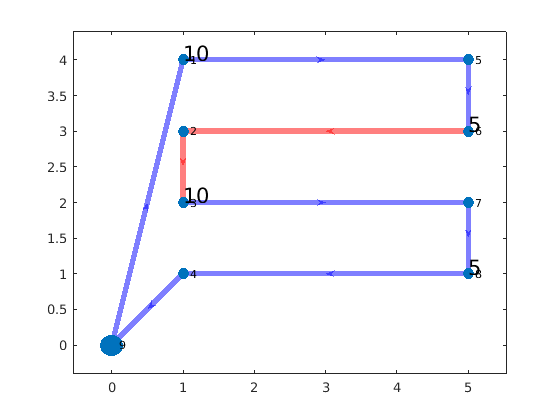
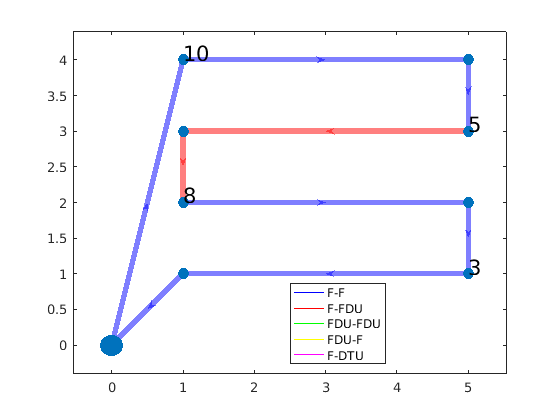
fixed problem with createBaseStationComplex.m

diff --git a/GTSP/GLNSplotter.m b/GTSP/GLNSplotter.m
@@ -6,11 +6,7 @@ clear
 close all
 load rando3.mat
 load rando1.mat
-GLNSSolution = [1001, 528, 207, 485, 110, 646, 725, 1358, 1808, 1955, 2001]
-
-
-
-
+GLNSSolution = [56, 23, 88, 89, 1]
 
 v_Cluster = cell2mat(v_Cluster);
 while GLNSSolution(1) ~= (numPointsInit * numBatteryLevels)+1
@@ -80,7 +76,7 @@ T4 = S3;
 T5 = S3;
 T6 = S3;
 T7 = S3;
-
+impossible = 0;
 for a = 2:(numPointsInit/2)+1
     if a == (numPointsInit/2)+1
         typeChecker = v_Type(GLNSSolution(a),GLNSSolution(a+1));
@@ -118,7 +114,9 @@ for a = 2:(numPointsInit/2)+1
         S7(end+1) = GLNSSolutionWithAllPoints(locationStart+1);
         T7(end+1) = GLNSSolutionWithAllPoints(locationEnd);
     else
+        impossible = 1;
         disp('error')
+        break
     end
     
 end
@@ -132,37 +130,51 @@ for i = 1:numel(GLNSx)
     end
 end
 
-% GLNSg = addedge(GLNSg,S8,T8);
-figure(2)
-GLNSPlot = plot(GLNSg,'XData',GLNSx,'YData',GLNSy, 'LineWidth',4, 'EdgeColor', 'b');
-axis equal
-groupedPoints = cell2mat(groupedPoints);
+if impossible == 0
+    % GLNSg = addedge(GLNSg,S8,T8);
+    figure(2)
+    GLNSPlot = plot(GLNSg,'XData',GLNSx,'YData',GLNSy, 'LineWidth',4, 'EdgeColor', 'b');
+    GLNSPlot.NodeLabel = {};
+    axis equal
+    groupedPoints = cell2mat(groupedPoints);
+    
+    for i = 2:length(GLNSSolution)-1
+        text(GLNSx(groupedPoints(GLNSSolution(i))), GLNSy(groupedPoints(GLNSSolution(i)))+0.1, num2str(v_ClusterLevels(GLNSSolution(i))), 'FontSize', 16)
+    end
+    hold on
+    
+    % highlight edges for UAV
+    if isempty(S3) == 0                 %highlight type 1 edges: F-F
+        highlight(GLNSPlot,S3, T3,'EdgeColor','b','LineWidth',4, 'LineStyle', '-')
+    end
+    if isempty(S4) == 0                 %highlight type 2 edges: F-FDU
+        highlight(GLNSPlot,S4, T4,'EdgeColor','r','LineWidth',4, 'LineStyle', '-')
+    end
+    if isempty(S5) == 0                 %highlight type 3 edges: FDU-FDU
+        highlight(GLNSPlot,S5, T5,'EdgeColor','g','LineWidth',4, 'LineStyle', '-')
+    end
+    if isempty(S6) == 0                 %highlight type 4 edges: FDU-F
+        highlight(GLNSPlot,S6, T6,'EdgeColor','y','LineWidth',4, 'LineStyle', '-')
+    end
+    if isempty(S7) == 0                 %highlight type 5 edges: F-DTU
+        highlight(GLNSPlot,S7, T7,'EdgeColor','m','LineWidth',4, 'LineStyle', '-')
+    end
+    % highlighting edges for UGV
+    % highlight(GLNSPlot, S8, T8, 'EdgeColor', 'r', 'LineWidth', 4)
+    
+    highlight(GLNSPlot, S2)             %highlights nodes
+    highlight(GLNSPlot, numel(S2))    %highlights last node
+    
+    h = zeros(5, 1);
+    h(1) = plot(NaN,NaN,'b');
+    h(2) = plot(NaN,NaN,'r');
+    h(3) = plot(NaN,NaN,'g');
+    h(4) = plot(NaN,NaN,'y');
+    h(5) = plot(NaN,NaN,'m');
+    legend(h, 'F-F','F-FDU','FDU-FDU','FDU-F','F-DTU');
+else
+    disp('impossible input');
+end
 
-for i = 2:length(GLNSSolution)-1
-    text(GLNSx(groupedPoints(GLNSSolution(i))), GLNSy(groupedPoints(GLNSSolution(i)))+0.1, num2str(v_ClusterLevels(GLNSSolution(i))), 'FontSize', 16)
-end
-hold on
-
-% highlight edges for UAV
-if isempty(S3) == 0                 %highlight type 1 edges: F-F
-    highlight(GLNSPlot,S3, T3,'EdgeColor','b','LineWidth',4, 'LineStyle', '-')
-end
-if isempty(S4) == 0                 %highlight type 2 edges: F-FDU
-    highlight(GLNSPlot,S4, T4,'EdgeColor','r','LineWidth',4, 'LineStyle', '-')
-end
-if isempty(S5) == 0                 %highlight type 3 edges: FDU-FDU
-    highlight(GLNSPlot,S5, T5,'EdgeColor','g','LineWidth',4, 'LineStyle', '-')
-end
-if isempty(S6) == 0                 %highlight type 4 edges: FDU-F
-    highlight(GLNSPlot,S6, T6,'EdgeColor','y','LineWidth',4, 'LineStyle', '-')
-end
-if isempty(S7) == 0                 %highlight type 5 edges: F-DTU
-    highlight(GLNSPlot,S7, T7,'EdgeColor','m','LineWidth',4, 'LineStyle', '-')
-end
-% highlighting edges for UGV
-% highlight(GLNSPlot, S8, T8, 'EdgeColor', 'r', 'LineWidth', 4)
-
-highlight(GLNSPlot, S2)             %highlights nodes
-highlight(GLNSPlot, numel(S2))    %highlights last node
 % close all;
 

diff --git a/GTSP/specificRuns.m b/GTSP/specificRuns.m
@@ -5,22 +5,22 @@ dbstop error
 clc; clear all; close all;
 addpath('edgeTypes')
 addpath('combos')
-data = readData('testInput.txt'); % get the size and shape from the data (this will tell you number of clusters points and so on)
+data = readData('sampleInput.txt'); % get the size and shape from the data (this will tell you number of clusters points and so on)
 [numClusters, ~] = size(data);
 x = [data(:,1), data(:,4)];
 y = [data(:,2), data(:,5)];
 UGVCapable = [data(:,3), data(:,6)];
 max_Distance = maxDistance(x, y);
 max_Distance = ceil(max_Distance);
-max_Distance = 100;   % if max_Distance == j then discharge is unit rate per distance
+max_Distance = 11;   % if max_Distance == j then discharge is unit rate per distance
 G = 0;
 % x = 0;
 % y = 0;
 i = numClusters*2; % number of vertices needed to be multiplied by battery levels
-j = max_Distance;             % number of battery levels
-tTO = 10;           % take off cost
-tL = 10;            % landing cost
-rRate = 0;         % rate of recharge
+j = 11;             % number of battery levels
+tTO = 1;           % take off cost
+tL = 1;            % landing cost
+rRate = 1;         % rate of recharge
 UGVS = 1;          % time to travel one unit for the UGV (greater than 1 means UGV is slower)
 method = 1;        % 1 = GLNS, 0 = concorde
 %     filename = [num2str(i) '_' num2str(j) 'GNLS' num2str(z)];

diff --git a/GTSP/testGeneral.m b/GTSP/testGeneral.m
@@ -31,13 +31,13 @@ v_Cluster = num2cell(v_Cluster);
 [groupedPoints] = makingGroupedPoints(numPointsInit, numBatteryLevels);
 groupedPoints = num2cell(groupedPoints);
 
-[v_Adj, v_Type, S1, T1, weights, v_ClusterLevels,FDU] = makingSTWv_AdjGeneral(maxDistance, x1, y1, numPointsInit, numBatteryLevels, v_Cluster, timeTO, timeL, rechargeRate, UGVSpeed, groupedPoints);
+[v_Adj, v_Type, S1, T1, weights, v_ClusterLevels,FDU,F] = makingSTWv_AdjGeneral(maxDistance, x1, y1, numPointsInit, numBatteryLevels, v_Cluster, timeTO, timeL, rechargeRate, UGVSpeed, groupedPoints);
 
 [xOut, yOut] = graphingCluster(x1, y1, numPointsInit, numBatteryLevels, S1, T1, 0, nodeArray, method);            % graph in cluster format
 
 % GTSP solver
 tic;
-[finalMatrix, G_init, edgeWeightsFinal, finalTour, gtspWeightMatrix, gtspWeightMatrix2,v_Type] = gtspSolver(v_Cluster,v_Adj,numPointsInit,numBatteryLevels,method,FDU,groupedPoints,x1,y1,UGVSpeed,maxDistance,v_Type);
+[finalMatrix, G_init, edgeWeightsFinal, finalTour, gtspWeightMatrix, gtspWeightMatrix2,v_Type] = gtspSolver(v_Cluster,v_Adj,numPointsInit,numBatteryLevels,method,FDU,groupedPoints,x1,y1,UGVSpeed,maxDistance,v_Type,F,v_ClusterLevels);
 gtspTime = toc;
 
 f = fullfile(pathName, filename);

diff --git a/GTSP/gtspSolver.m b/GTSP/gtspSolver.m
@@ -15,7 +15,7 @@
 % finalTour = the finished transformed tour
 % problem = means there was an error and this is not a valid run
 
-function [finalMatrix, G_init, weights, finalTour, atspAdjMatrix, v_AdjChecker,v_Type] = gtspSolver(v_Cluster, v_Adj, numPoints, numLevels,method,FDU,groupedPoints, x,y,UGVSpeed,maxDistance,v_Type)
+function [finalMatrix, G_init, weights, finalTour, atspAdjMatrix, v_AdjChecker,v_Type] = gtspSolver(v_Cluster, v_Adj, numPoints, numLevels,method,FDU,groupedPoints, x,y,UGVSpeed,maxDistance,v_Type,F,v_ClusterLevels)
 
 switch method
     case 0
@@ -73,6 +73,6 @@ switch method
         finalTour = 0;
         atspAdjMatrix = 0;
 %                 [v_AdjChecker] = createBaseStationSimple(v_Adj, numPoints, numLevels);
-        [v_AdjChecker,v_Type] = createBaseStationComplex(v_Adj,numPoints,numLevels,FDU,v_Cluster,groupedPoints,x,y,UGVSpeed,maxDistance,v_Type);
+        [v_AdjChecker,v_Type] = createBaseStationComplex(v_Adj,numPoints,numLevels,FDU,v_Cluster,groupedPoints,x,y,UGVSpeed,maxDistance,v_Type,F,v_ClusterLevels);
         
 end

diff --git a/GTSP/createBaseStationComplex.m b/GTSP/createBaseStationComplex.m
@@ -2,7 +2,7 @@
 % This adds the base station, but gives costs to go to the base station,
 % but not to come from the base station.
 
-function [v_Adj,v_Type] = createBaseStationComplex(v_Adj,numPoints,numLevels,FDU,v_Cluster,groupedPoints,x,y,UGVSpeed,maxDistance,v_Type)
+function [v_Adj,v_Type] = createBaseStationComplex(v_Adj,numPoints,numLevels,FDU,v_Cluster,groupedPoints,x,y,UGVSpeed,maxDistance,v_Type,F,v_ClusterLevels)
 
 
 numInV_Adj = numel(v_Adj);
@@ -42,7 +42,9 @@ for i = 1:(numPoints*numLevels)
     
     edgeE = pdist([x(id1),y(id1);x(id2),y(id2)],'euclidean') + (pdist([x(id2),y(id2);x(id3),y(id3)],'euclidean')*UGVSpeed);% F, DTU
     % check if E is possible
-    if pdist([x(id1),y(id1);x(id2),y(id2)],'euclidean') > maxDistance
+    if pdist([x(id1),y(id1);x(id2),y(id2)],'euclidean') > maxDistance % TODO: This needs to take into account the battery level
+        edgeE = Inf;
+    elseif pdist([x(id1),y(id1);x(id2),y(id2)],'euclidean') > (v_ClusterLevels(i)*(maxDistance/numLevels));
         edgeE = Inf;
     end
     

diff --git a/GTSP/makingSTWv_AdjGeneral.m b/GTSP/makingSTWv_AdjGeneral.m
@@ -6,7 +6,7 @@
 % UGVSpeed = the time to travel one unit for the UGV (has to be greater than equal to 1)
 % OUTPUTS
 
-function [v_AdjNew, v_Type, sNew, tNew, weights, v_ClusterLevels, FDU] = makingSTWv_AdjGeneral(maxDistance, x, y, numPoints, numLevels, v_Cluster, timeTO, timeL, rechargeRate, UGVSpeed, groupedPoints)
+function [v_AdjNew, v_Type, sNew, tNew, weights, v_ClusterLevels, FDU,F] = makingSTWv_AdjGeneral(maxDistance, x, y, numPoints, numLevels, v_Cluster, timeTO, timeL, rechargeRate, UGVSpeed, groupedPoints)
 
 v_ClusterLevels = [];
 for i = 1:numPoints
